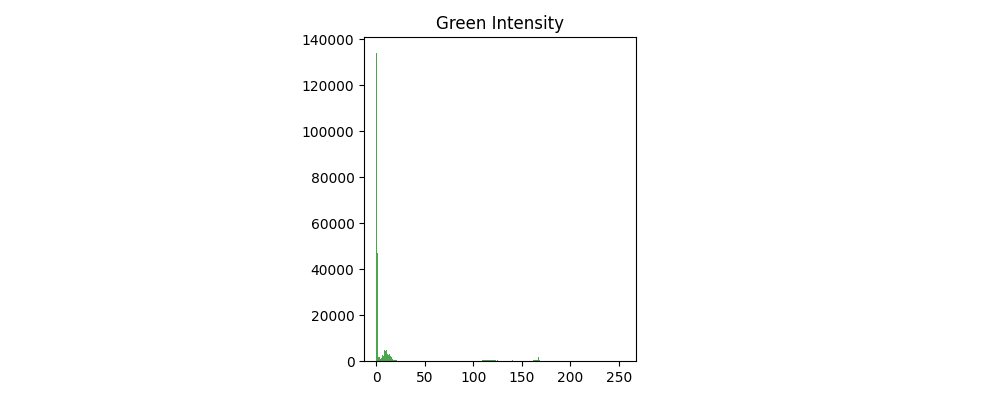
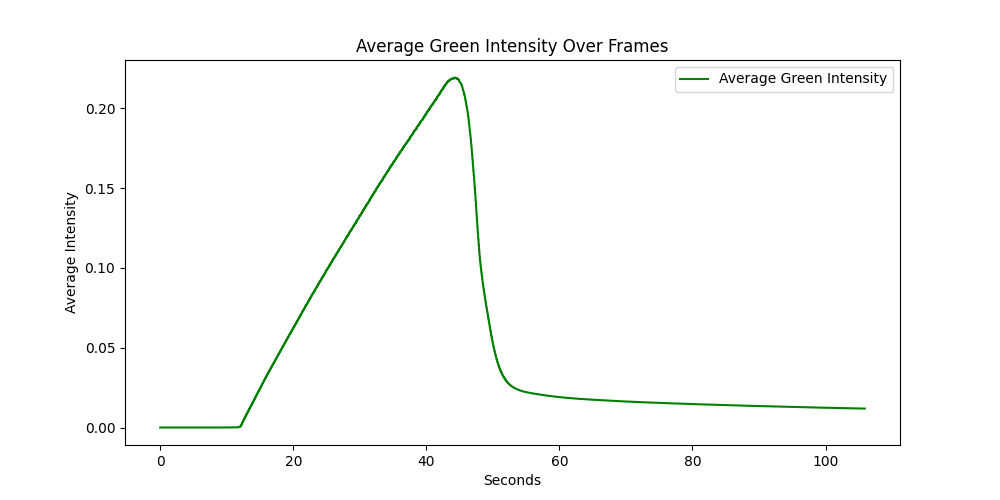
combined functions and cleaned up code

diff --git a/intensity.py b/intensity.py
@@ -3,6 +3,13 @@ import numpy as np
 import matplotlib.pyplot as plt
 import os
 
+#clear previous frames
+folder = 'frames/'
+
+for filename in os.listdir(folder):
+    file_path = os.path.join(folder, filename)
+    if os.path.isfile(file_path):
+        os.remove(file_path)
 # Input video path
 video_path = '8pt6C1mlmin100 - Copy.MP4'
 
@@ -13,9 +20,9 @@ os.makedirs(output_dir, exist_ok=True)
 # Open the video file
 cap = cv2.VideoCapture(video_path)
 
-# Frame counter
+# Extracting frames
 frame_num = 0
-avg_green = []
+
 counter =0
 while cap.isOpened():
     ret, frame = cap.read()
@@ -29,13 +36,10 @@ while cap.isOpened():
     frame[:, :, 0] = 0  # Blue channel
     frame[:, :, 2] = 0  # Red channel
 
+    #Counts frames before injection starts
     min_val, max_val, min_loc, max_loc = cv2.minMaxLoc(green_channel)
     if max_val < 255:
         counter += 1
-
-    
-
-    # print(f"Average Green intensity: {avg_g:.2f}")
 
     
     # Save current frame as image
@@ -45,33 +49,47 @@ while cap.isOpened():
     frame_num += 1
 
 cap.release()
-print(f"Done! Extracted {frame_num} frames to '{output_dir}/'")
-
-
 frames_folder = 'frames/'
-frame_files = sorted(os.listdir(frames_folder))  # Sort to keep order
-img = cv2.imread(os.path.join(frames_folder, frame_files[counter+1]))  # OpenCV loads in BGR order
+frame_files = sorted(f for f in os.listdir(frames_folder)
+                     if f.endswith(('.png', '.jpg')))
+print(f"Done! Extracted {frame_num} frames to '{output_dir}/'")
+print(f"Done! Extracted {len(frame_files)} frames to '{output_dir}/'")
 
-# Extract the green channel (channel index 1 in BGR)
+# setup for functions
+
+
+img = cv2.imread(os.path.join(frames_folder, frame_files[counter+1]))  # first frame with pure water
+
+
 green_channel = img[:, :, 1]
 
-# Find the location of the maximum green value
+# Find the location of the maximum green value in frame where injection begins
 min_val, max_val, min_loc, max_loc = cv2.minMaxLoc(green_channel)
 
 print(f"Brightest green pixel intensity: {max_val}")
-print(f"Location (x, y): {max_loc}")  # OpenCV returns (x, y) format
+print(f"Location (x, y): {max_loc}") 
 x,y =max_loc
 marked_img = img.copy()
 cv2.circle(marked_img, (x, y), radius=5, color=(0, 0, 255), thickness=2)
-# Save or show the result
+# Save image with brightest pixel marked
 cv2.imwrite('marked_brightest_green.jpg', marked_img)
 
 
+
+
+
+
+
+
+#function for finding average intensity of whole cell
 def find_avg():
+    avg_green = []
+    green = []
+    print("Number of valid frames:", len(frame_files))
+
     for filename in frame_files:
-        if filename.endswith('.png') or filename.endswith('.jpg'):
-            path = os.path.join(frames_folder, filename)
-            img = cv2.imread(path)  
+        path = os.path.join(frames_folder, filename)
+        img = cv2.imread(path)  
         center_x, center_y = max_loc
         radius = 400
 
@@ -79,101 +97,88 @@ def find_avg():
         mask = np.zeros(img.shape[:2], dtype=np.uint8)  # single channel mask
         marked = img.copy()
         cv2.circle(mask, (center_x, center_y), radius, 255, -1)  # fill circle with white
-        cv2.circle(marked, (center_x, center_y), radius, color=(255, 255, 255), thickness=2)  # green border
-
+        cv2.circle(marked, (center_x, center_y), radius, color=(255, 255, 255), thickness=2)  
+        # draw white border and save
         cv2.imwrite('image_with_circle.jpg', marked)
-
-# Extract green channel
         
 
-# Apply mask: only pixels inside circle are kept
+# only keep pixels with white mask
         green_channel = img[:, :, 1]
         masked_values = green_channel[mask == 255]
-    # Compute average intensity for each channel
+    #find and add the average intensities to a list
         avg_g = np.mean(masked_values)
         avg_green.append(avg_g) 
 
+        pixel = img[y,x]  
+        green.append(pixel[1])
+    return avg_green, green
 
-green =[]
+
+#function for finding intensity of a specific pixel
 def check_regions(folder):
+    
 
     for filename in frame_files:
         if filename.endswith('.png') or filename.endswith('.jpg'):
             path = os.path.join(frames_folder, filename)
             img = cv2.imread(path)
-            pixel = img[y,x]  
+            #choose injection point pixel (initially brightest)
             
-            green.append(pixel[1])
 
-find_avg()
-check_regions('frames/')
+    return green
 
-print(avg_green)
+avg_green, green = find_avg()
+
+
+#converting y axis from frames to seconds
 fps = 30  
-
 times_in_seconds = [i / fps for i in range(len(avg_green))]
+#normalizing x axis
 avg_intensity = [(x) / (255) for x in avg_green]
 intensity = [(x) / (255) for x in green]
 
+print(len(avg_green))
+
+#Plotting 
+
 
 plt.figure(figsize=(10, 5))
+plt.ylim(0, 1)
+#plt.xlim(right=100)
 
-plt.plot(times_in_seconds, avg_intensity, color='green', label='Average Green Intensity')
+plt.plot(times_in_seconds, avg_intensity, color='green')
 
 
-plt.title('Average Green Intensity Over Frames')
+plt.title('Average Green Intensity Over Time')
 plt.xlabel('Seconds')
 plt.ylabel('Average Intensity')
 plt.legend()
-plt.savefig('green_channel_only.png')
+plt.savefig(video_path+'green_channel_only.png')
 
 
 
 plt.figure(figsize=(10, 5))
+plt.ylim(0, 1)
+#plt.xlim(right=100)
 
-plt.plot(times_in_seconds, intensity, color='green', label='Average Green Intensity')
+plt.plot(times_in_seconds, intensity, color='green')
 
 
-plt.title('Green Intensity Over Frames')
+plt.title('Green Intensity Over Time')
 plt.xlabel('Seconds')
 plt.ylabel('Intensity')
 plt.legend()
-plt.savefig('green_channel.png')
+plt.savefig(video_path+'green_channel.png')
 
+#testing
 
-# Load image
-# for filename in frames/:
-#    path = os.path.join(frames_folder, filename)
-#    img = cv2.imread(path)
-#    img_rgb = cv2.cvtColor(img, cv2.COLOR_BGR2RGB)
+print("Frame count:", len(frame_files))
+print("Image shape:", img.shape)
 
-#     # Split color channels
-#     r, g, b = cv2.split(img_rgb)
-#     img[:, :, 0] = 0  # Blue channel
-#     img[:, :, 2] = 0  # Red channel
-
-#         # Compute average intensity for each channel
-
-#     avg_g = np.mean(g)
+for t, g in zip(times_in_seconds[:10], avg_green[:10]):
+    print(f"{t:.2f} s → {g}")
 
 
 
-#     print(f"Average Green intensity: {avg_g:.2f}")
-
-
-
-
-# Show histograms of color intensity
-# plt.figure(figsize=(10, 4))
-
-
-
-# plt.subplot(1, 3, 2)
-# plt.hist(g.ravel(), bins=256, color='green', alpha=0.7)
-# plt.title('Green Intensity')
-
-
-
-# plt.tight_layout()
  
 
